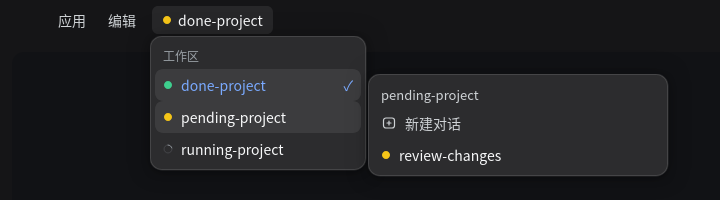
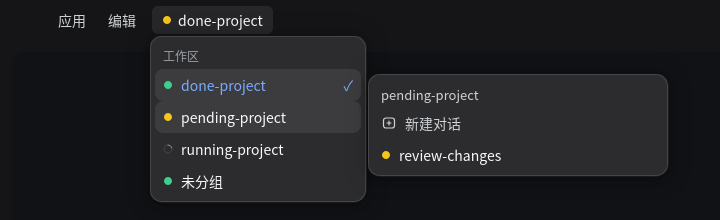
feat: list ungrouped conversations in the titlebar menu

diff --git a/lib/client.js b/lib/client.js
@@ -36,6 +36,7 @@ loader.load({
             "menu.new": "新建对话",
             "menu.empty": "还没有工作区",
             "menu.emptySessions": "还没有对话",
+            "menu.ungrouped": "未分组",
             "menu.current": "当前工作区",
             "session.new": "新对话",
             "session.untitled": "未命名对话",
@@ -52,6 +53,7 @@ loader.load({
             "menu.new": "New conversation",
             "menu.empty": "No workspaces yet",
             "menu.emptySessions": "No conversations yet",
+            "menu.ungrouped": "Ungrouped",
             "menu.current": "Current workspace",
             "session.new": "New conversation",
             "session.untitled": "Untitled conversation",
@@ -248,6 +250,35 @@ loader.load({
         function dotSize(state) {
             return state === "ongoing" ? 10 : 8;
         }
+        const UNGROUPED = "";
+        /**
+         * The sidebar's "Ungrouped" bucket: sessions no workspace claims (for
+         * example after a workspace is removed). Blank placeholders are dropped
+         * except for the current one, matching visibleSessions().
+         */
+        function ungroupedItem(workspaces, sessions, currentSessionId, t) {
+            const grouped = new Set();
+            for (const workspace of workspaces) {
+                for (const id of Array.isArray(workspace.sessionIds) ? workspace.sessionIds : [])
+                    grouped.add(id);
+            }
+            const sessionIds = [];
+            for (const id of Object.keys(sessions)) {
+                const session = sessions[id];
+                if (session === undefined)
+                    continue;
+                if (grouped.has(id))
+                    continue;
+                if (session.archived === true)
+                    continue;
+                if (session.blank === true && session.id !== currentSessionId)
+                    continue;
+                sessionIds.push(id);
+            }
+            if (sessionIds.length === 0)
+                return undefined;
+            return { workspaceId: UNGROUPED, title: t("menu.ungrouped"), sessionIds };
+        }
         function statusLabel(state, t) {
             if (state === "warning")
                 return t("status.warning");
@@ -390,17 +421,21 @@ loader.load({
             const currentWorkspace = currentSessionId === null
                 ? undefined
                 : workspaces.find((item) => Array.isArray(item.sessionIds) && item.sessionIds.includes(currentSessionId));
+            // Sessions no workspace claims still belong on the roster, like the
+            // sidebar's "Ungrouped" section.
+            const ungrouped = ungroupedItem(workspaces, sessions, currentSessionId, t);
+            const menuWorkspaces = ungrouped === undefined ? workspaces : [...workspaces, ungrouped];
             // The chip reports the whole roster's highest state, so a warning in another
             // workspace still reaches the window's titlebar.
-            const global = globalState(workspaces, statuses, sessions);
+            const global = globalState(menuWorkspaces, statuses, sessions);
             const label = currentWorkspace === undefined ? t("chip.choose") : workspaceTitle(currentWorkspace, t);
             const stateText = statusLabel(global.state, t);
             const ownerTitle = global.workspace !== undefined && (currentWorkspace === undefined || global.workspace.workspaceId !== currentWorkspace.workspaceId)
                 ? workspaceTitle(global.workspace, t)
                 : undefined;
-            const activeWorkspace = workspaces.find((item) => item.workspaceId === activeId)
+            const activeWorkspace = menuWorkspaces.find((item) => item.workspaceId === activeId)
                 ?? currentWorkspace
-                ?? workspaces[0];
+                ?? menuWorkspaces[0];
             const activeSessions = activeWorkspace === undefined ? [] : visibleSessions(activeWorkspace, sessions, currentSessionId);
             const openMenu = () => {
                 setActiveId(currentWorkspace === undefined ? null : currentWorkspace.workspaceId);
@@ -598,9 +633,9 @@ loader.load({
                     ref: menuRef,
                     style: { left: menuLeft + "px" },
                     onKeyDown: onMenuKeyDown,
-                }, h("div", { className: "tbw-menuLabel" }, t("menu.workspaces")), workspaces.length === 0
+                }, h("div", { className: "tbw-menuLabel" }, t("menu.workspaces")), menuWorkspaces.length === 0
                     ? h("div", { className: "tbw-empty" }, t("menu.empty"))
-                    : workspaces.map((item) => {
+                    : menuWorkspaces.map((item) => {
                         const rowState = workspaceState(item, statuses, sessions);
                         const active = activeWorkspace !== undefined && activeWorkspace.workspaceId === item.workspaceId;
                         const isCurrent = currentWorkspace !== undefined && currentWorkspace.workspaceId === item.workspaceId;
@@ -623,10 +658,10 @@ loader.load({
                             },
                             onClick: () => {
                                 const target = bestSession(item, sessions, statuses);
-                                if (target === undefined)
-                                    run(() => newSession(item.workspaceId));
-                                else
+                                if (target !== undefined)
                                     run(() => openSession(target.id));
+                                else if (item.workspaceId !== UNGROUPED)
+                                    run(() => newSession(item.workspaceId));
                             },
                         }, rowState !== "idle"
                             ? h("span", { className: "tbw-dot", "aria-hidden": true }, h(StateDot, { state: rowState, size: dotSize(rowState) }))
@@ -644,16 +679,18 @@ loader.load({
                         top: (subPos === null ? 44 : subPos.top) + "px",
                     },
                     onKeyDown: onSubKeyDown,
-                }, h("div", { className: "tbw-subHead", title: workspacePath(activeWorkspace) }, workspaceTitle(activeWorkspace, t)), h("button", {
-                    type: "button",
-                    className: "tbw-new",
-                    onClick: () => {
-                        setError(null);
-                        Promise.resolve(newSession(activeWorkspace.workspaceId)).catch((reason) => {
-                            setError(reason instanceof Error ? reason.message : String(reason));
-                        });
-                    },
-                }, h("span", { className: "tbw-plus", "aria-hidden": true }, IconNewChatRegular === undefined ? "+" : h(IconNewChatRegular, { size: 16 })), h("span", { className: "tbw-itemName" }, t("menu.new"))), activeSessions.length === 0
+                }, h("div", { className: "tbw-subHead", title: workspacePath(activeWorkspace) }, workspaceTitle(activeWorkspace, t)), activeWorkspace.workspaceId === UNGROUPED
+                    ? null
+                    : h("button", {
+                        type: "button",
+                        className: "tbw-new",
+                        onClick: () => {
+                            setError(null);
+                            Promise.resolve(newSession(activeWorkspace.workspaceId)).catch((reason) => {
+                                setError(reason instanceof Error ? reason.message : String(reason));
+                            });
+                        },
+                    }, h("span", { className: "tbw-plus", "aria-hidden": true }, IconNewChatRegular === undefined ? "+" : h(IconNewChatRegular, { size: 16 })), h("span", { className: "tbw-itemName" }, t("menu.new"))), activeSessions.length === 0
                     ? h("div", { className: "tbw-empty" }, t("menu.emptySessions"))
                     : activeSessions.map((session) => {
                         const rowState = sessionState(lookup(statuses, session.id));

diff --git a/src/client.ts b/src/client.ts
@@ -131,6 +131,7 @@ loader.load({
       "menu.new": "新建对话",
       "menu.empty": "还没有工作区",
       "menu.emptySessions": "还没有对话",
+      "menu.ungrouped": "未分组",
       "menu.current": "当前工作区",
       "session.new": "新对话",
       "session.untitled": "未命名对话",
@@ -147,6 +148,7 @@ loader.load({
       "menu.new": "New conversation",
       "menu.empty": "No workspaces yet",
       "menu.emptySessions": "No conversations yet",
+      "menu.ungrouped": "Ungrouped",
       "menu.current": "Current workspace",
       "session.new": "New conversation",
       "session.untitled": "Untitled conversation",
@@ -351,6 +353,36 @@ loader.load({
       return state === "ongoing" ? 10 : 8;
     }
 
+    const UNGROUPED = "";
+
+    /**
+     * The sidebar's "Ungrouped" bucket: sessions no workspace claims (for
+     * example after a workspace is removed). Blank placeholders are dropped
+     * except for the current one, matching visibleSessions().
+     */
+    function ungroupedItem(
+      workspaces: WorkspaceItem[],
+      sessions: Record<string, SessionSummary>,
+      currentSessionId: string | null,
+      t: Translate,
+    ): WorkspaceItem | undefined {
+      const grouped = new Set<string>();
+      for (const workspace of workspaces) {
+        for (const id of Array.isArray(workspace.sessionIds) ? workspace.sessionIds : []) grouped.add(id);
+      }
+      const sessionIds: string[] = [];
+      for (const id of Object.keys(sessions)) {
+        const session = sessions[id];
+        if (session === undefined) continue;
+        if (grouped.has(id)) continue;
+        if (session.archived === true) continue;
+        if (session.blank === true && session.id !== currentSessionId) continue;
+        sessionIds.push(id);
+      }
+      if (sessionIds.length === 0) return undefined;
+      return { workspaceId: UNGROUPED, title: t("menu.ungrouped"), sessionIds };
+    }
+
     function statusLabel(state: SessionState, t: Translate): string {
       if (state === "warning") return t("status.warning");
       if (state === "ongoing") return t("status.ongoing");
@@ -493,18 +525,22 @@ loader.load({
       const currentWorkspace = currentSessionId === null
         ? undefined
         : workspaces.find((item) => Array.isArray(item.sessionIds) && item.sessionIds.includes(currentSessionId));
+      // Sessions no workspace claims still belong on the roster, like the
+      // sidebar's "Ungrouped" section.
+      const ungrouped = ungroupedItem(workspaces, sessions, currentSessionId, t);
+      const menuWorkspaces: WorkspaceItem[] = ungrouped === undefined ? workspaces : [...workspaces, ungrouped];
       // The chip reports the whole roster's highest state, so a warning in another
       // workspace still reaches the window's titlebar.
-      const global = globalState(workspaces, statuses, sessions);
+      const global = globalState(menuWorkspaces, statuses, sessions);
       const label = currentWorkspace === undefined ? t("chip.choose") : workspaceTitle(currentWorkspace, t);
       const stateText = statusLabel(global.state, t);
       const ownerTitle = global.workspace !== undefined && (currentWorkspace === undefined || global.workspace.workspaceId !== currentWorkspace.workspaceId)
         ? workspaceTitle(global.workspace, t)
         : undefined;
 
-      const activeWorkspace = workspaces.find((item) => item.workspaceId === activeId)
+      const activeWorkspace = menuWorkspaces.find((item) => item.workspaceId === activeId)
         ?? currentWorkspace
-        ?? workspaces[0];
+        ?? menuWorkspaces[0];
       const activeSessions = activeWorkspace === undefined ? [] : visibleSessions(activeWorkspace, sessions, currentSessionId);
 
       const openMenu = () => {
@@ -705,9 +741,9 @@ loader.load({
                 onKeyDown: onMenuKeyDown,
               },
               h("div", { className: "tbw-menuLabel" }, t("menu.workspaces")),
-              workspaces.length === 0
+              menuWorkspaces.length === 0
                 ? h("div", { className: "tbw-empty" }, t("menu.empty"))
-                : workspaces.map((item) => {
+                : menuWorkspaces.map((item) => {
                     const rowState = workspaceState(item, statuses, sessions);
                     const active = activeWorkspace !== undefined && activeWorkspace.workspaceId === item.workspaceId;
                     const isCurrent = currentWorkspace !== undefined && currentWorkspace.workspaceId === item.workspaceId;
@@ -732,8 +768,8 @@ loader.load({
                         },
                         onClick: () => {
                           const target = bestSession(item, sessions, statuses);
-                          if (target === undefined) run(() => newSession(item.workspaceId));
-                          else run(() => openSession(target.id));
+                          if (target !== undefined) run(() => openSession(target.id));
+                          else if (item.workspaceId !== UNGROUPED) run(() => newSession(item.workspaceId));
                         },
                       },
                       rowState !== "idle"
@@ -764,21 +800,23 @@ loader.load({
                 { className: "tbw-subHead", title: workspacePath(activeWorkspace) },
                 workspaceTitle(activeWorkspace, t),
               ),
-              h(
-                "button",
-                {
-                  type: "button",
-                  className: "tbw-new",
-                  onClick: () => {
-                    setError(null);
-                    Promise.resolve(newSession(activeWorkspace.workspaceId)).catch((reason) => {
-                      setError(reason instanceof Error ? reason.message : String(reason));
-                    });
-                  },
-                },
-                h("span", { className: "tbw-plus", "aria-hidden": true }, IconNewChatRegular === undefined ? "+" : h(IconNewChatRegular, { size: 16 })),
-                h("span", { className: "tbw-itemName" }, t("menu.new")),
-              ),
+              activeWorkspace.workspaceId === UNGROUPED
+                ? null
+                : h(
+                    "button",
+                    {
+                      type: "button",
+                      className: "tbw-new",
+                      onClick: () => {
+                        setError(null);
+                        Promise.resolve(newSession(activeWorkspace.workspaceId)).catch((reason) => {
+                          setError(reason instanceof Error ? reason.message : String(reason));
+                        });
+                      },
+                    },
+                    h("span", { className: "tbw-plus", "aria-hidden": true }, IconNewChatRegular === undefined ? "+" : h(IconNewChatRegular, { size: 16 })),
+                    h("span", { className: "tbw-itemName" }, t("menu.new")),
+                  ),
               activeSessions.length === 0
                 ? h("div", { className: "tbw-empty" }, t("menu.emptySessions"))
                 : activeSessions.map((session) => {

diff --git a/README.md b/README.md
@@ -28,7 +28,8 @@ dsh plugin --profile desktop add github:ExcitedEven/dsh-titlebar-workspace
 2. 鼠标移到某个工作区（或用键盘聚焦），右侧展开它的对话列表。
 3. 点工作区 = 打开最该看的那条对话：等待处理优先，其次未读，再其次运行中；同状态取最新的；空工作区则新建一条。
 4. 点对话 = 直接打开它；「新建对话」会复用已有的空白对话，不会堆出一串空会话，列表保持展开让你看到结果。
-5. 点外面、按 `Esc`，或者有弹窗出现时，菜单自动收起。
+5. 工作区被删除后残留的会话会出现在「未分组」里，同样可以查看和打开。
+6. 点外面、按 `Esc`，或者有弹窗出现时，菜单自动收起。
 
 ## 状态提示
 

diff --git a/README.en.md b/README.en.md
@@ -28,7 +28,8 @@ dsh plugin --profile desktop add github:ExcitedEven/dsh-titlebar-workspace
 2. Hover (or focus) a workspace to expand its conversations on the right.
 3. Click a workspace to open its most relevant conversation: waiting first, then unread, then running, newest when tied; an empty workspace starts a new one.
 4. Click a conversation to open it. "New conversation" reuses an existing blank instead of piling up empties, and the list stays open so the result is visible.
-5. Click outside, press `Esc`, or let a dialog open and the menu closes.
+5. Conversations left behind after a workspace is removed appear under "Ungrouped" and can be opened the same way.
+6. Click outside, press `Esc`, or let a dialog open and the menu closes.
 
 ## Status
 

diff --git a/CHANGELOG.md b/CHANGELOG.md
@@ -4,6 +4,10 @@
 
 ## [Unreleased]
 
+### 新增
+
+- 顶栏菜单新增「未分组」：没有归属工作区的会话也会列出来，可以查看和打开。
+
 ## [0.2.0] - 2026-11-08
 
 ### 变更
